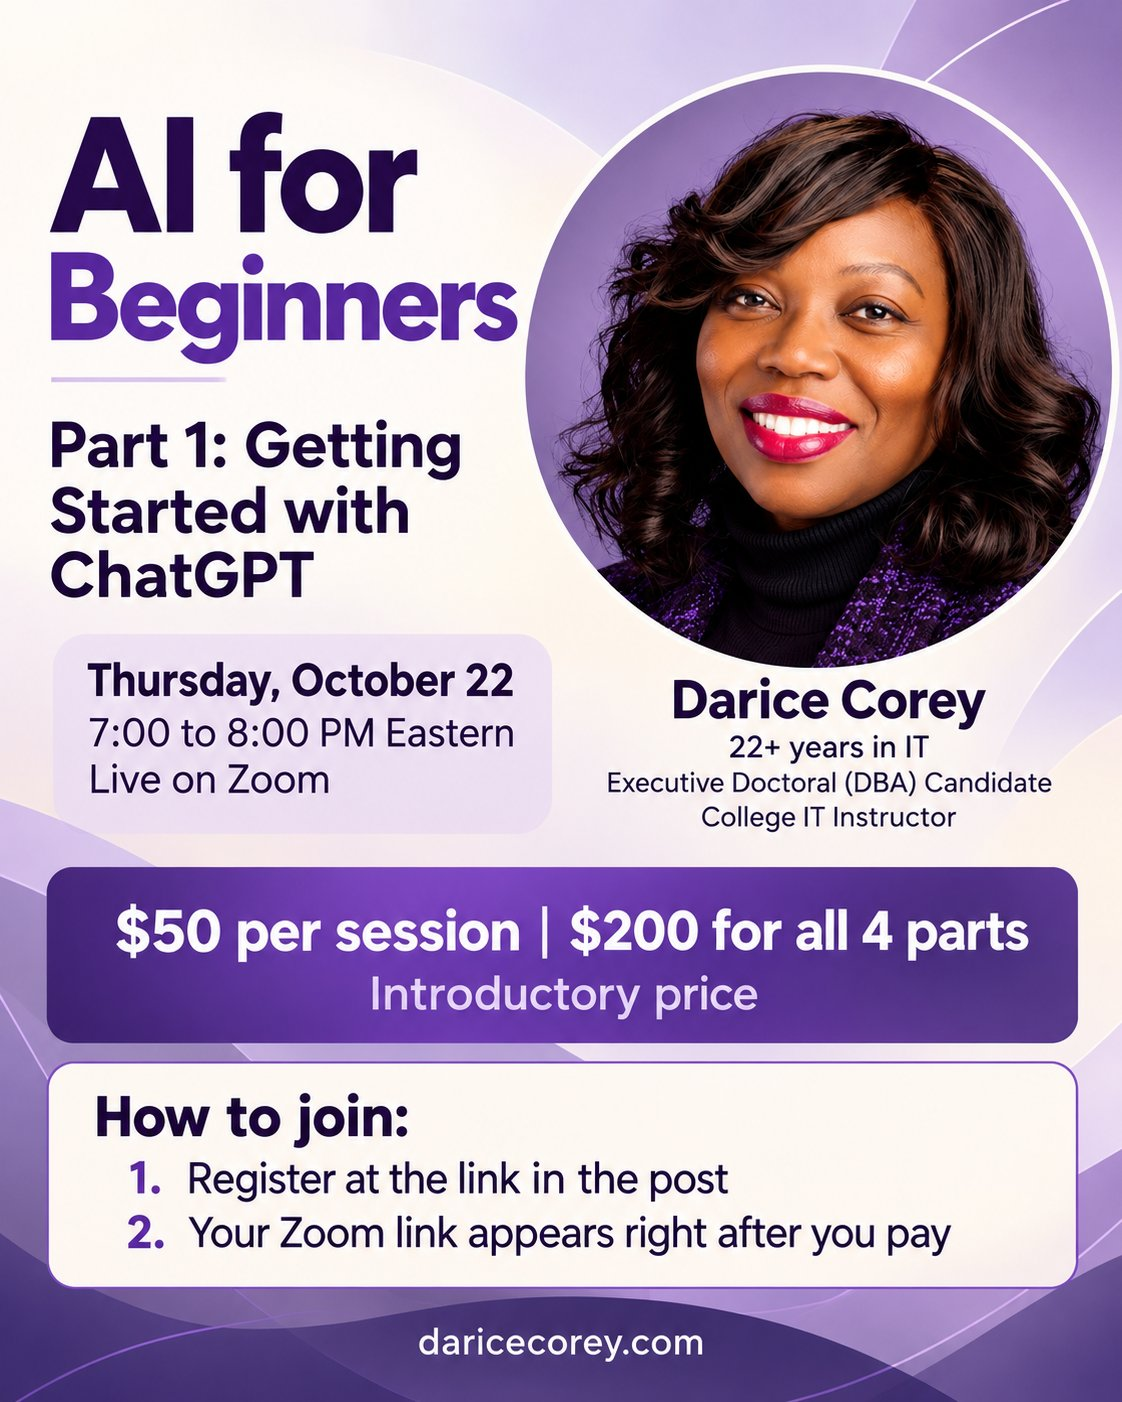
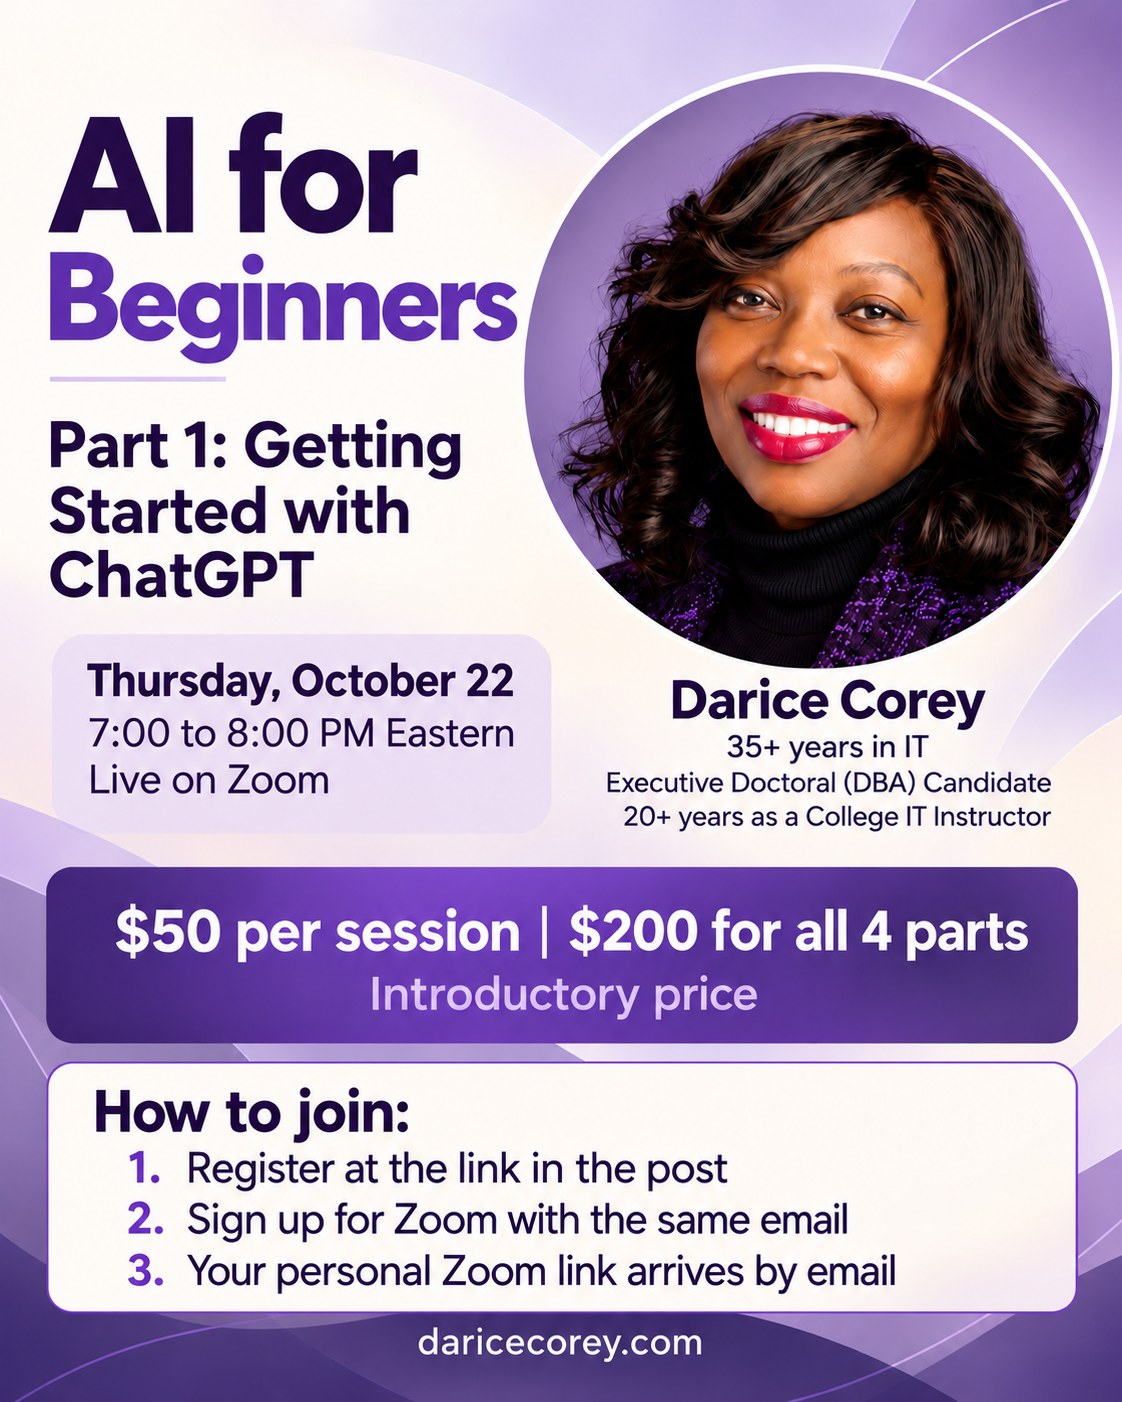
Update AI for Beginners graphic with Zoom registration steps
Claude-Session: https://claude.ai/code/session_01CVTrh3xqG5RQK5WN8V6MV3

diff --git a/ai-for-beginners.html b/ai-for-beginners.html
@@ -62,9 +62,9 @@
             <li>What it means when AI tools can take actions on your computer</li>
           </ul>
           <p style="line-height:1.75;margin-bottom:1rem;">The session is a 30-minute guided workshop, followed by open practice and Q&amp;A. Bring something real you'd like help with, like an email you've been putting off or a meal plan for the week.</p>
-          <p style="line-height:1.75;">This is Part 1 of my four-part AI for Beginners series. I've spent more than 22 years working in IT and teaching it at the college level, and I'm currently an executive doctoral student researching AI governance. I teach in plain language, with real examples and plenty of room for questions.</p>
+          <p style="line-height:1.75;">This is Part 1 of my four-part AI for Beginners series. I've spent more than 35 years working in IT and teaching it at the college level, and I'm currently an executive doctoral student researching AI governance. I teach in plain language, with real examples and plenty of room for questions.</p>
         </div>
-        <img src="/images/events/ai-for-beginners-part-1.jpg" alt="AI for Beginners, Part 1: Getting Started with ChatGPT. Thursday, October 22, 7:00 to 8:00 PM Eastern, live on Zoom. Hosted by Darice Corey. $50 per session or $200 for all 4 parts, introductory price." width="1122" height="1402" style="width:100%;height:auto;border-radius:12px;" loading="lazy" />
+        <img src="/images/events/ai-for-beginners-part-1.jpg?v=2" alt="AI for Beginners, Part 1: Getting Started with ChatGPT. Thursday, October 22, 7:00 to 8:00 PM Eastern, live on Zoom. Hosted by Darice Corey. $50 per session or $200 for all 4 parts, introductory price. How to join: register at the link, sign up for Zoom with the same email, and your personal Zoom link arrives by email." width="1122" height="1402" style="width:100%;height:auto;border-radius:12px;" loading="lazy" />
       </div>
     </section>
 
